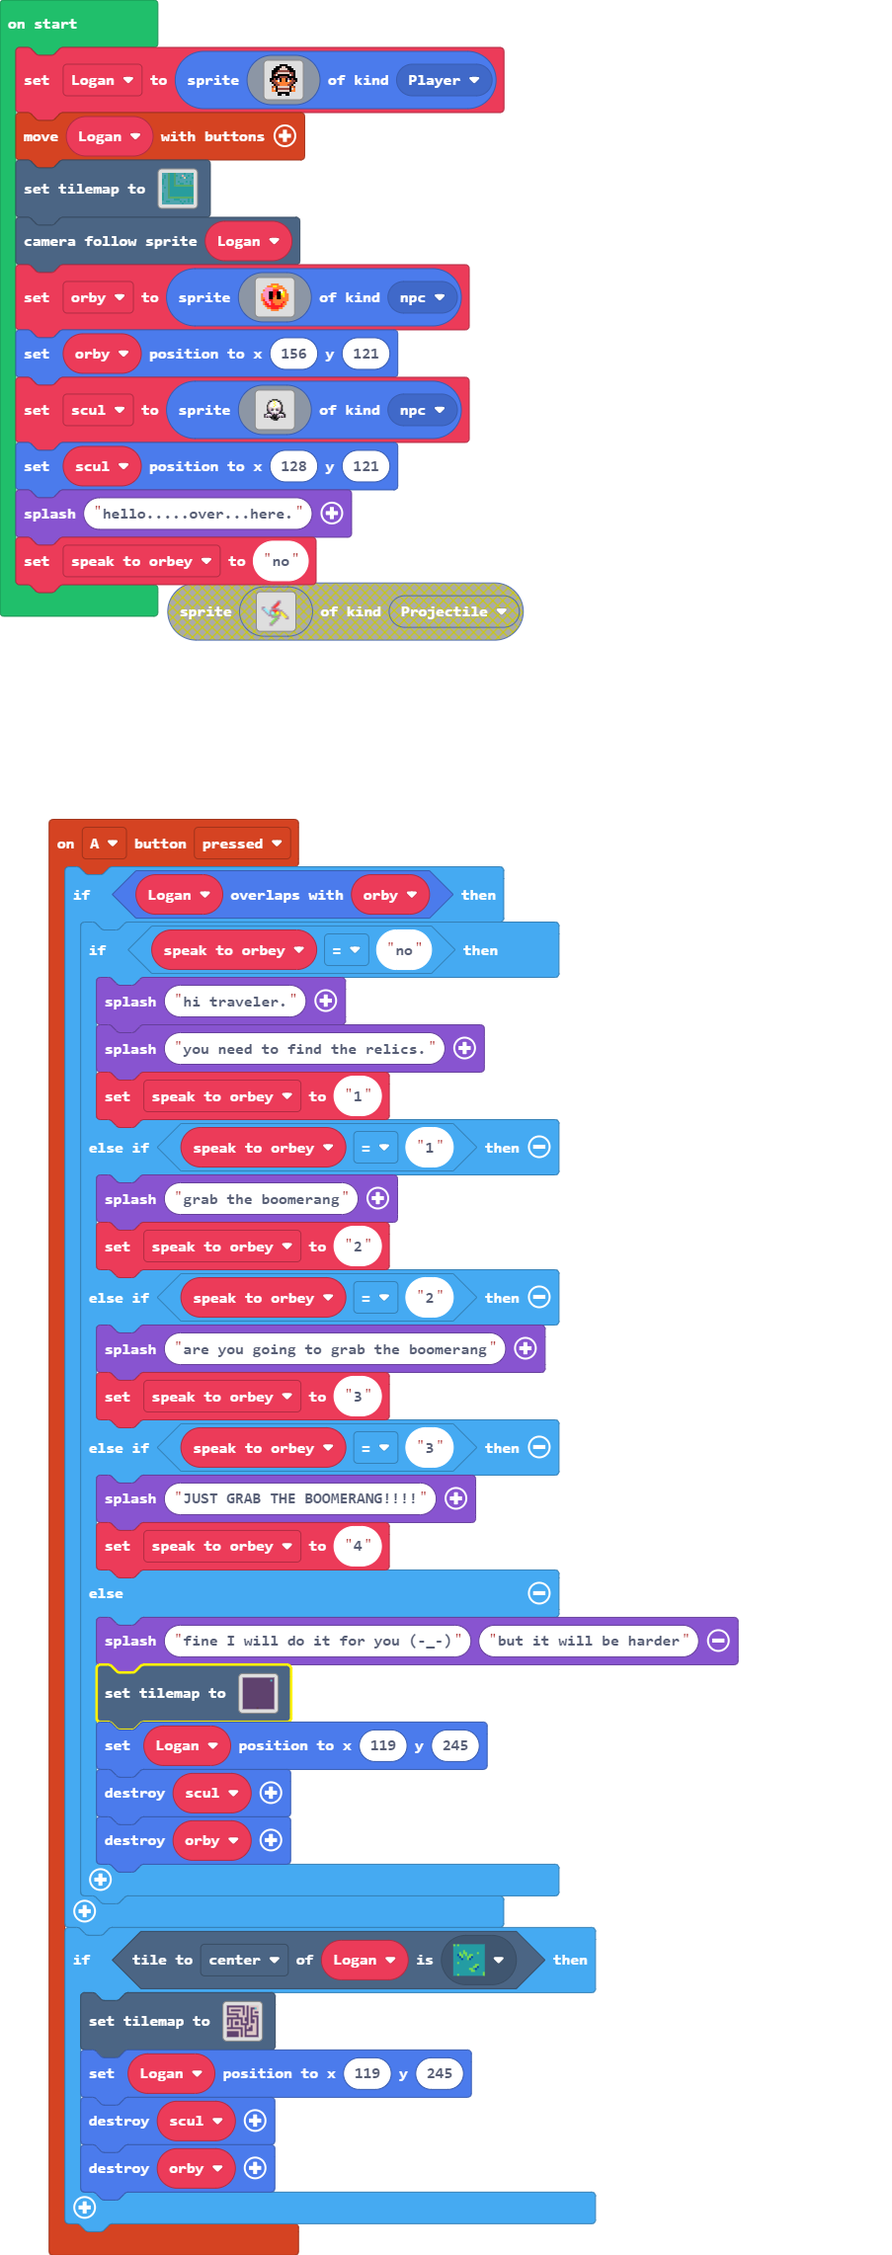
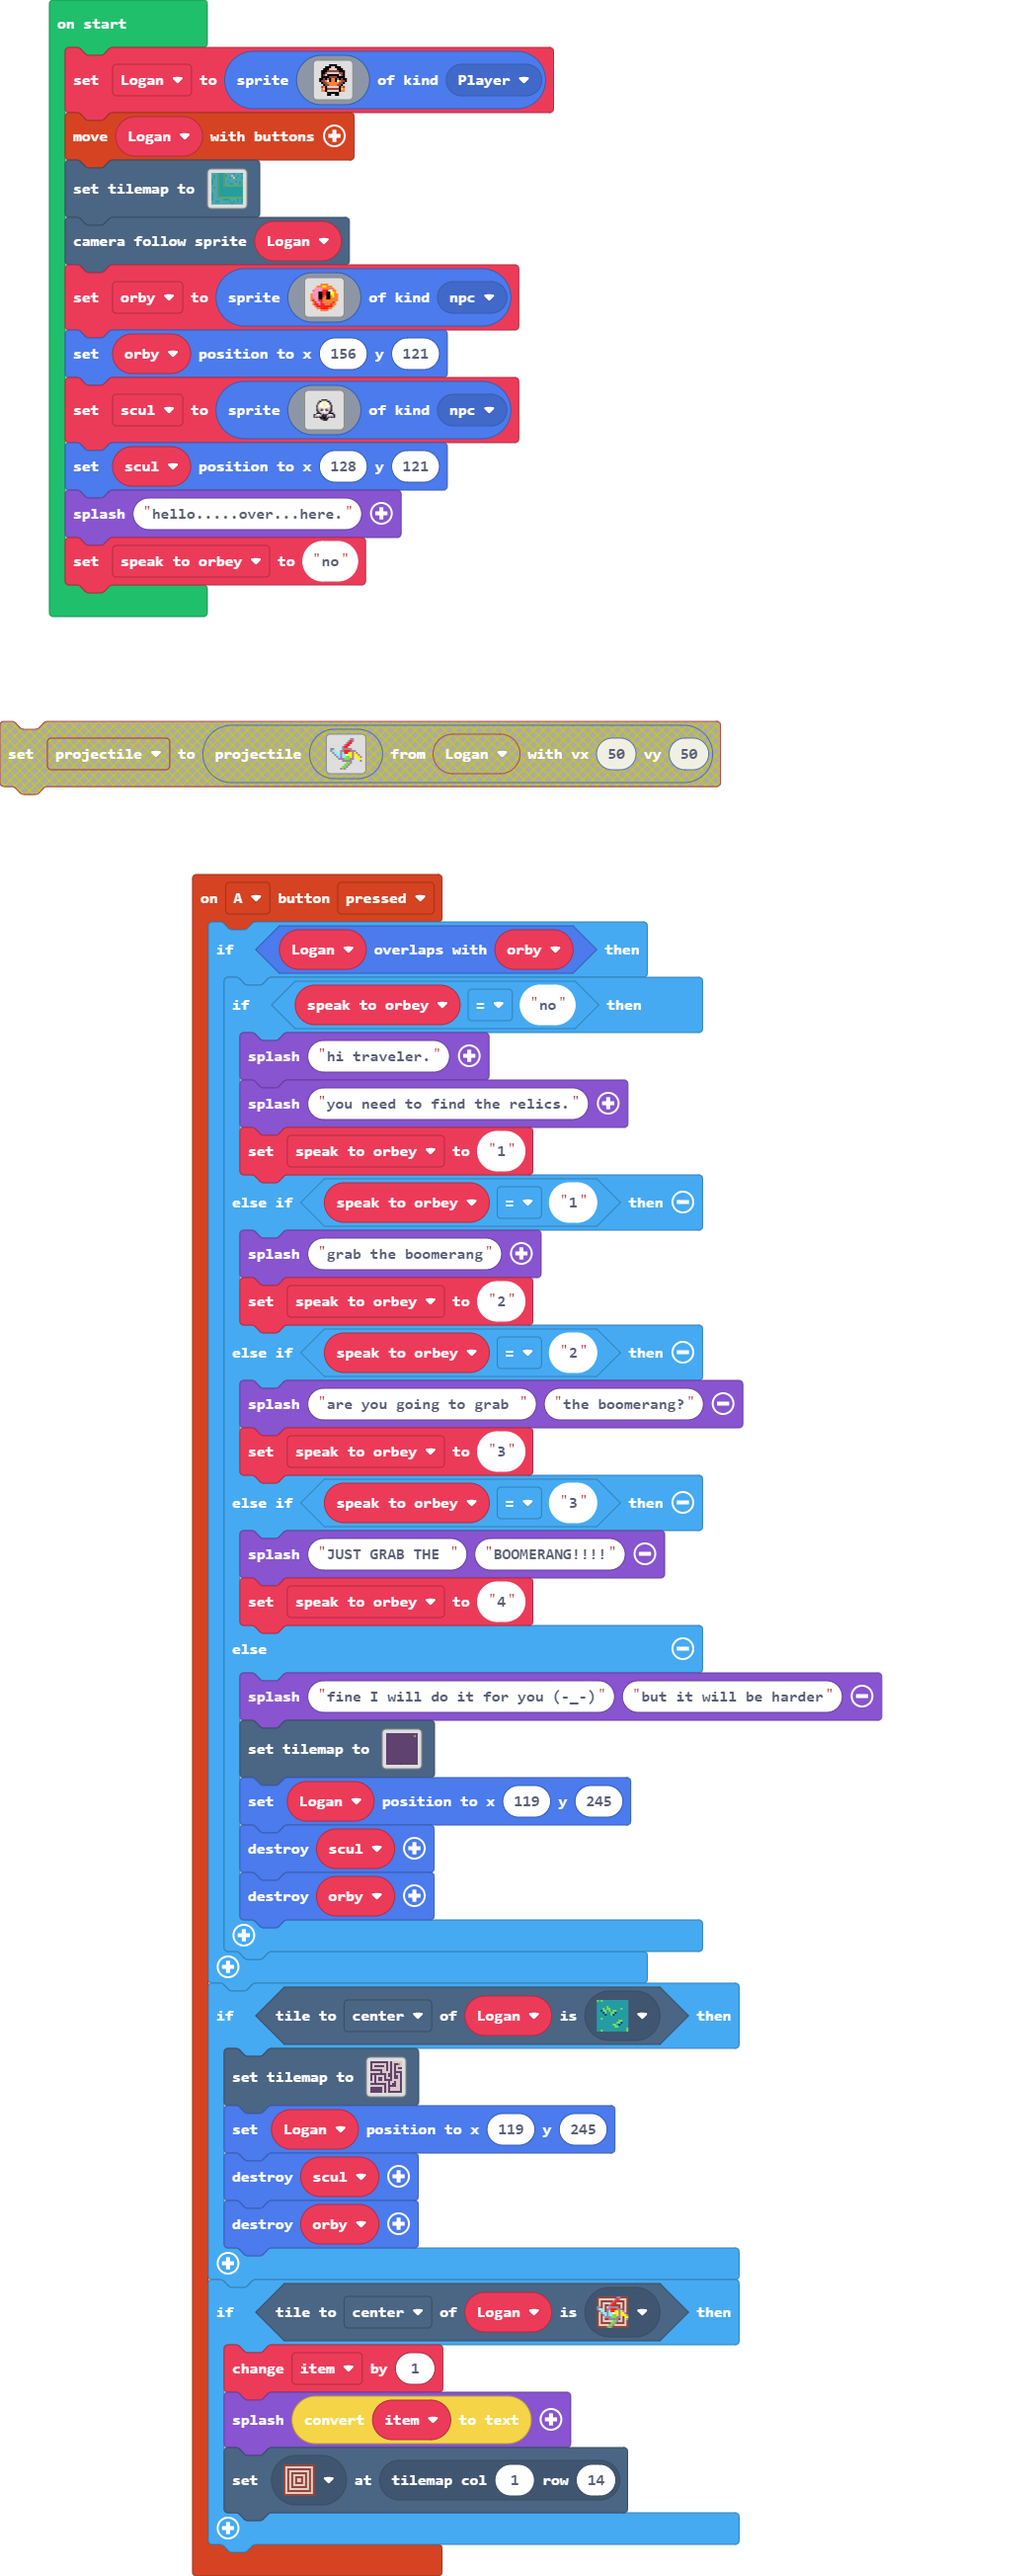
Update pxt.json, main.blocks, main.ts, tilemap.g.jres, tilemap.g.ts

diff --git a/tilemap.g.ts b/tilemap.g.ts
@@ -10,6 +10,10 @@ namespace myTiles {
     export const tile1 = image.ofBuffer(hex``);
     //% fixedInstance jres blockIdentity=images._tile
     export const tile4 = image.ofBuffer(hex``);
+    //% fixedInstance jres blockIdentity=images._tile
+    export const tile5 = image.ofBuffer(hex``);
+    //% fixedInstance jres blockIdentity=images._tile
+    export const tile6 = image.ofBuffer(hex``);
 
     helpers._registerFactory("tilemap", function(name: string) {
         switch(helpers.stringTrim(name)) {
@@ -89,25 +93,6 @@ namespace myTiles {
 . . . . . . . . . . . . . . . . 
 . . . . . . . . . . . . . . . . 
 `, [myTiles.transparency16], TileScale.Sixteen);
-            case "level2":
-            case "level2":return tiles.createTilemap(hex`1000100001010101010101010104010404040404010404040404040401040104010102040104010101010104010401040104040401040404040404040104010401040101010101010101040401040104010404040404040404010404040401040101010101010101010101010401010401040401010401040404040104010104010104010104010401010401040401040101040101040104010104010101010404040401040401040404040404010404010404010101010101010101040104010104040104040404040404010401010101040401010101010101040104010404040404010101010101010401040104040404040101010101010104030401010101010101`, img`
-. . . . . . . . . 2 . 2 2 2 2 2 
-. 2 2 2 2 2 2 2 . 2 . 2 . . . 2 
-. 2 2 2 2 2 2 2 . 2 . 2 . 2 2 2 
-. 2 2 2 2 2 2 2 . 2 . 2 . 2 2 2 
-. . . . . . 2 2 . 2 . 2 . 2 2 2 
-2 2 2 2 2 . 2 2 2 2 . 2 . . . . 
-. . . . . . . . 2 . . 2 . 2 2 . 
-. 2 . 2 2 2 2 . 2 . . 2 . . 2 . 
-. 2 . 2 2 2 2 . 2 2 . 2 . . 2 . 
-. 2 . 2 2 2 2 . . . . 2 2 2 2 . 
-2 2 . 2 2 2 2 2 2 . 2 2 . 2 2 . 
-. . . . . . . . 2 . 2 . . 2 2 . 
-2 2 2 2 2 2 2 . 2 . . . . 2 2 . 
-2 2 2 2 2 2 2 . 2 . 2 2 2 2 2 . 
-2 2 2 2 2 2 2 . 2 . 2 2 2 2 2 . 
-2 2 2 2 2 2 2 . 2 . . . . . . . 
-`, [myTiles.transparency16,sprites.dungeon.darkGroundCenter,sprites.dungeon.collectibleInsignia,myTiles.tile4,sprites.dungeon.floorLight0], TileScale.Sixteen);
             case "level6":
             case "level6":return tiles.createTilemap(hex`1000100002020202020202020202020202020202020202020202020202020202020203020202020202020202020202020202020202020202020202020202020202020202020202020202020202020202020202020202020202020202020202020202020202020202020202020202020202020202020202020202020202020202020202020202020202020202020202020202020202020202020202020202020202020202020202020202020202020202020202020202020202020202020202020202020202020202020202020202020202020202020202020202020202020202020202020202020202020202020202020202020202020202020202010202020202020202`, img`
 . . . . . . . . . 2 . 2 2 2 2 2 
@@ -126,7 +111,26 @@ namespace myTiles {
 2 2 2 2 2 2 2 . 2 . 2 2 2 2 2 . 
 2 2 2 2 2 2 2 . 2 . 2 2 2 2 2 . 
 2 2 2 2 2 2 2 . 2 . . . . . . . 
-`, [myTiles.transparency16,myTiles.tile4,sprites.dungeon.darkGroundCenter,sprites.dungeon.collectibleInsignia], TileScale.Sixteen);
+`, [myTiles.transparency16,myTiles.tile4,sprites.dungeon.darkGroundCenter,myTiles.tile5], TileScale.Sixteen);
+            case "level2":
+            case "level2":return tiles.createTilemap(hex`1000100001010101010101010103010303030303010303030303030301030103010104030103010101010103010301030103030301030303030303030103010301030101010101010101030301030103010303030303030303010303030301030101010101010101010101010301010301030301010301030303030103010103010103010103010301010301030301030101030101030103010103010101010303030301030301030303030303010303010303010101010101010101030103010103030103030303030303010301010101030301010101010101030103010303030303010101010101010301030103030303030101010101010103020301010101010101`, img`
+. . . . . . . . . 2 . 2 2 2 2 2 
+. 2 2 2 2 2 2 2 . 2 . 2 . . . 2 
+. 2 2 2 2 2 2 2 . 2 . 2 . 2 2 2 
+. 2 2 2 2 2 2 2 . 2 . 2 . 2 2 2 
+. . . . . . 2 2 . 2 . 2 . 2 2 2 
+2 2 2 2 2 . 2 2 2 2 . 2 . . . . 
+. . . . . . . . 2 . . 2 . 2 2 . 
+. 2 . 2 2 2 2 . 2 . . 2 . . 2 . 
+. 2 . 2 2 2 2 . 2 2 . 2 . . 2 . 
+. 2 . 2 2 2 2 . . . . 2 2 2 2 . 
+2 2 . 2 2 2 2 2 2 . 2 2 . 2 2 . 
+. . . . . . . . 2 . 2 . . 2 2 . 
+2 2 2 2 2 2 2 . 2 . . . . 2 2 . 
+2 2 2 2 2 2 2 . 2 . 2 2 2 2 2 . 
+2 2 2 2 2 2 2 . 2 . 2 2 2 2 2 . 
+2 2 2 2 2 2 2 . 2 . . . . . . . 
+`, [myTiles.transparency16,sprites.dungeon.darkGroundCenter,myTiles.tile4,sprites.dungeon.floorLight0,myTiles.tile5,myTiles.tile6], TileScale.Sixteen);
         }
         return null;
     })
@@ -142,6 +146,10 @@ namespace myTiles {
             case "tile1":return tile1;
             case "myTile2":
             case "tile4":return tile4;
+            case "myTile3":
+            case "tile5":return tile5;
+            case "myTile4":
+            case "tile6":return tile6;
         }
         return null;
     })

diff --git a/main.ts b/main.ts
@@ -11,10 +11,10 @@ controller.A.onEvent(ControllerButtonEvent.Pressed, function () {
             game.splash("grab the boomerang")
             speak_to_orbey = "2"
         } else if (speak_to_orbey == "2") {
-            game.splash("are you going to grab the boomerang")
+            game.splash("are you going to grab ", "the boomerang?")
             speak_to_orbey = "3"
         } else if (speak_to_orbey == "3") {
-            game.splash("JUST GRAB THE BOOMERANG!!!!")
+            game.splash("JUST GRAB THE ", "BOOMERANG!!!!")
             speak_to_orbey = "4"
         } else {
             game.splash("fine I will do it for you (-_-)", "but it will be harder")
@@ -30,7 +30,13 @@ controller.A.onEvent(ControllerButtonEvent.Pressed, function () {
         scul.destroy()
         orby.destroy()
     }
+    if (Logan.tileKindAt(TileDirection.Center, assets.tile`myTile3`)) {
+        item += 1
+        game.splash(convertToText(item))
+        tiles.setTileAt(tiles.getTileLocation(1, 14), assets.tile`myTile4`)
+    }
 })
+let item = 0
 let speak_to_orbey = ""
 let scul: Sprite = null
 let orby: Sprite = null
